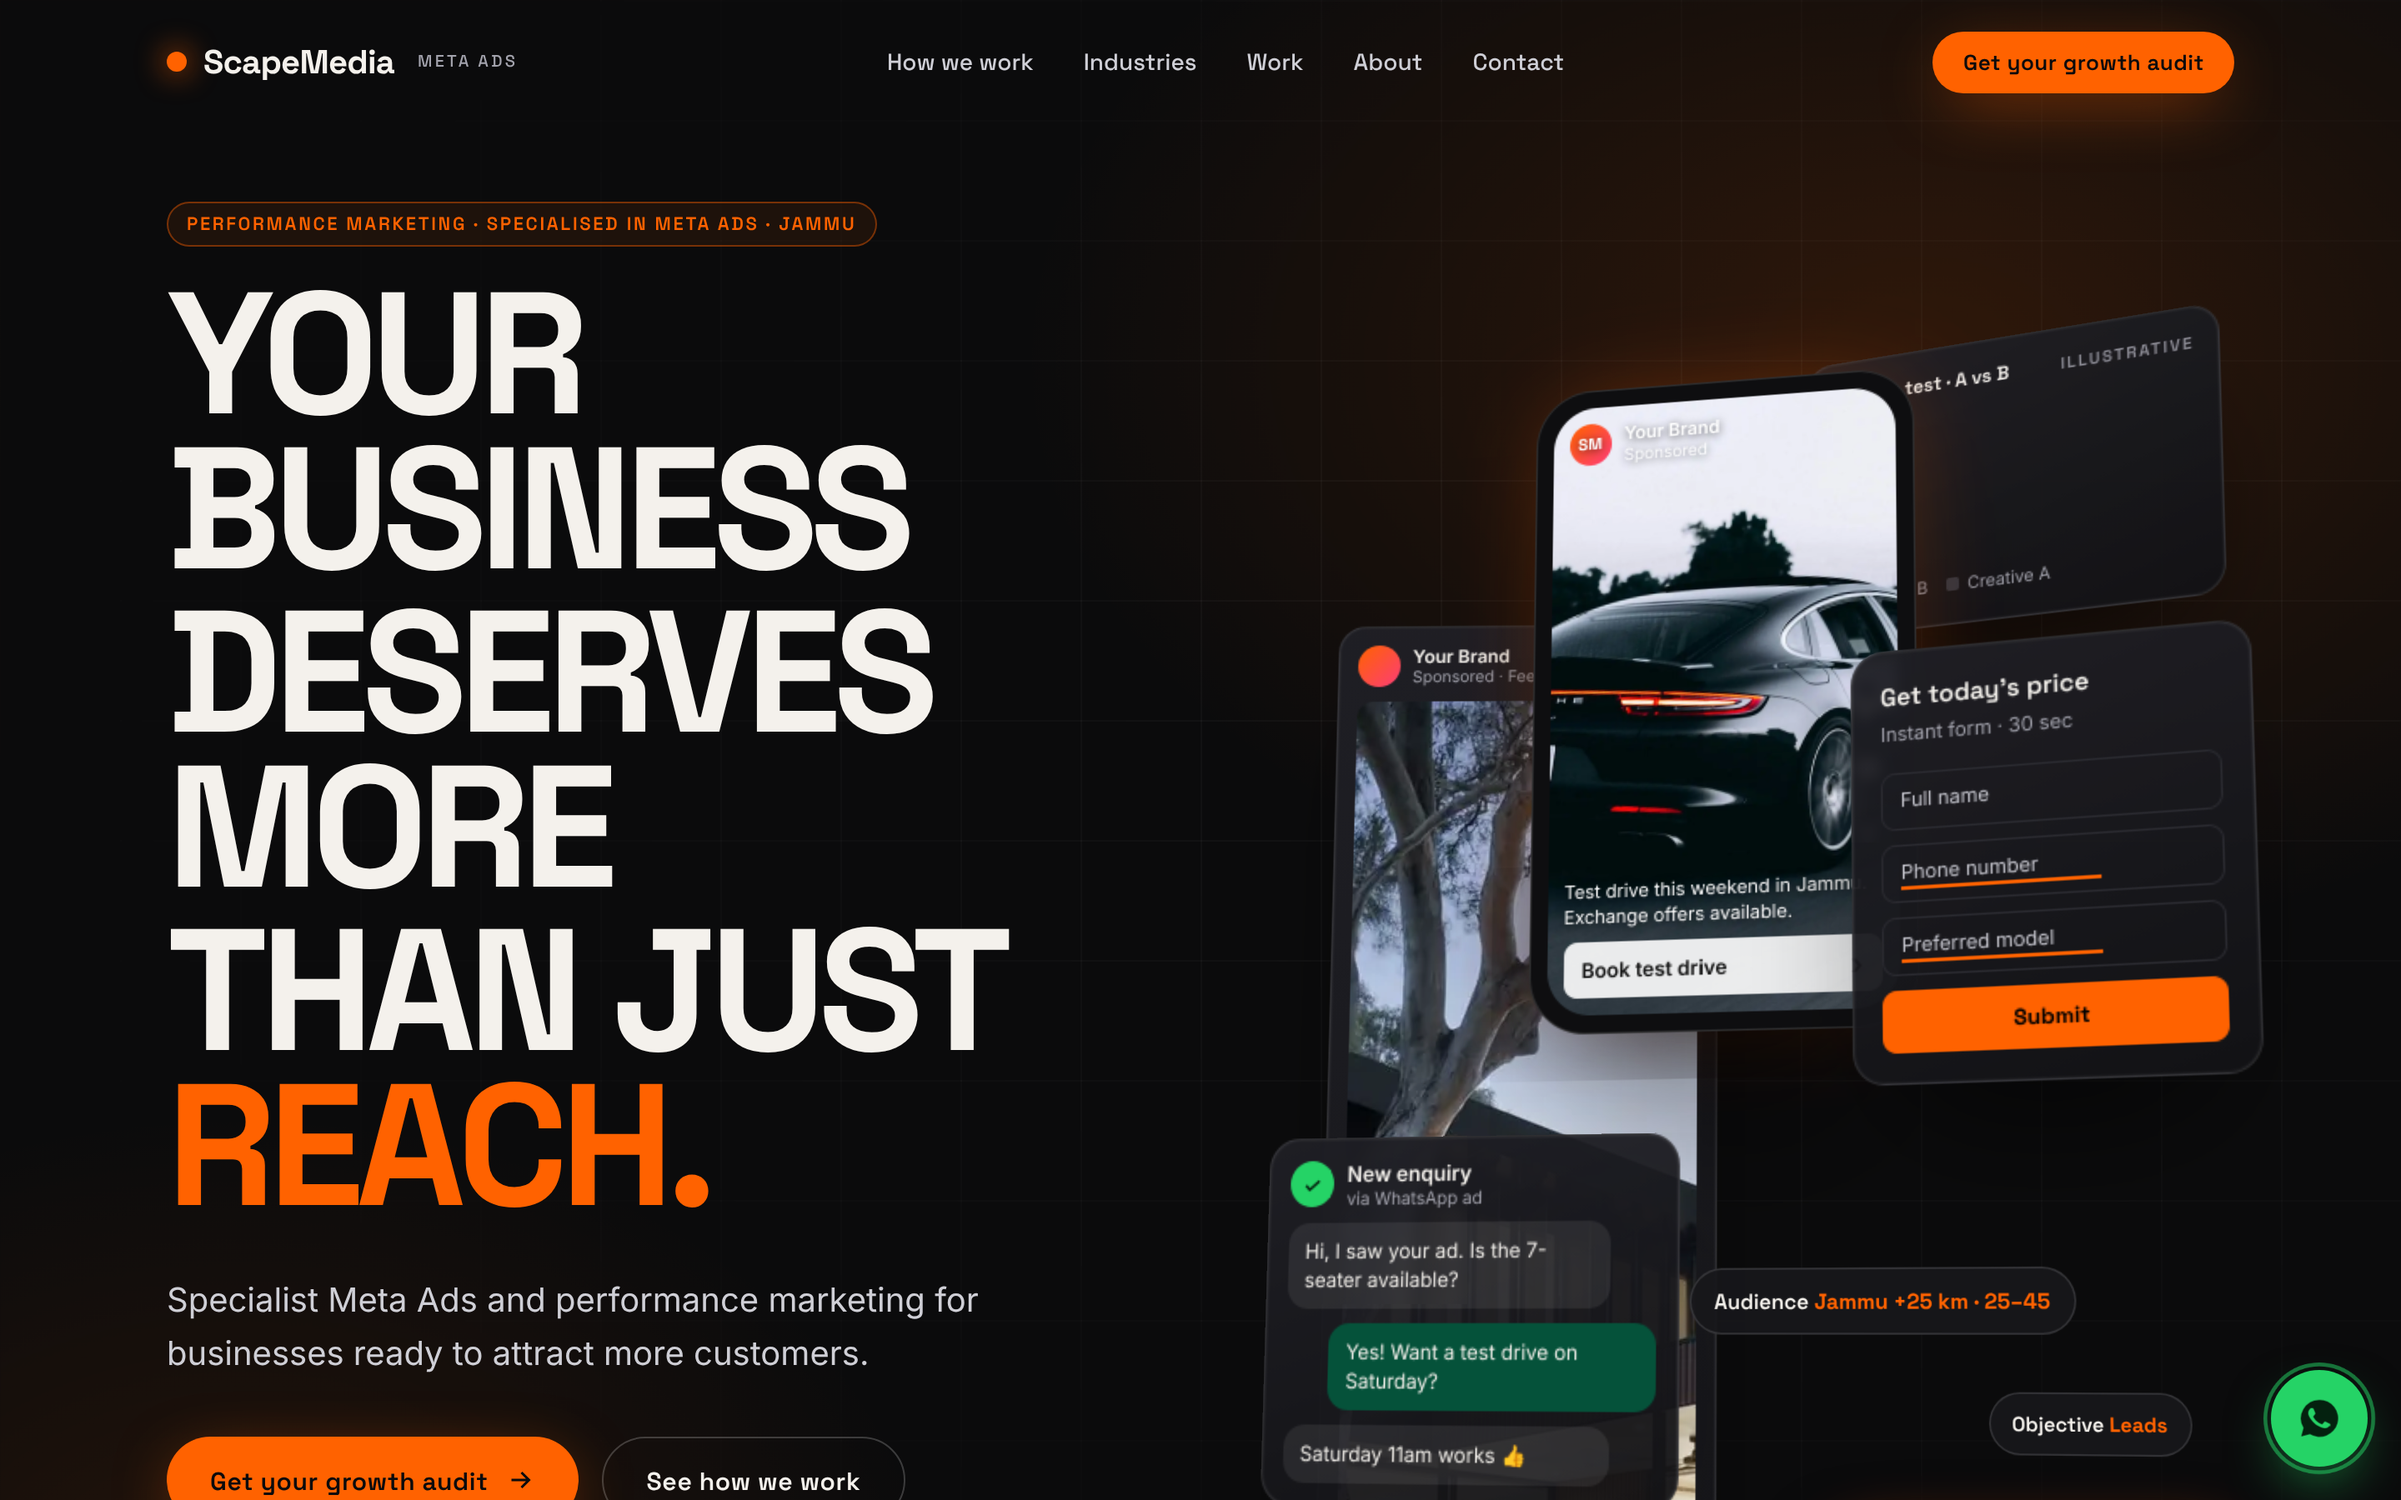
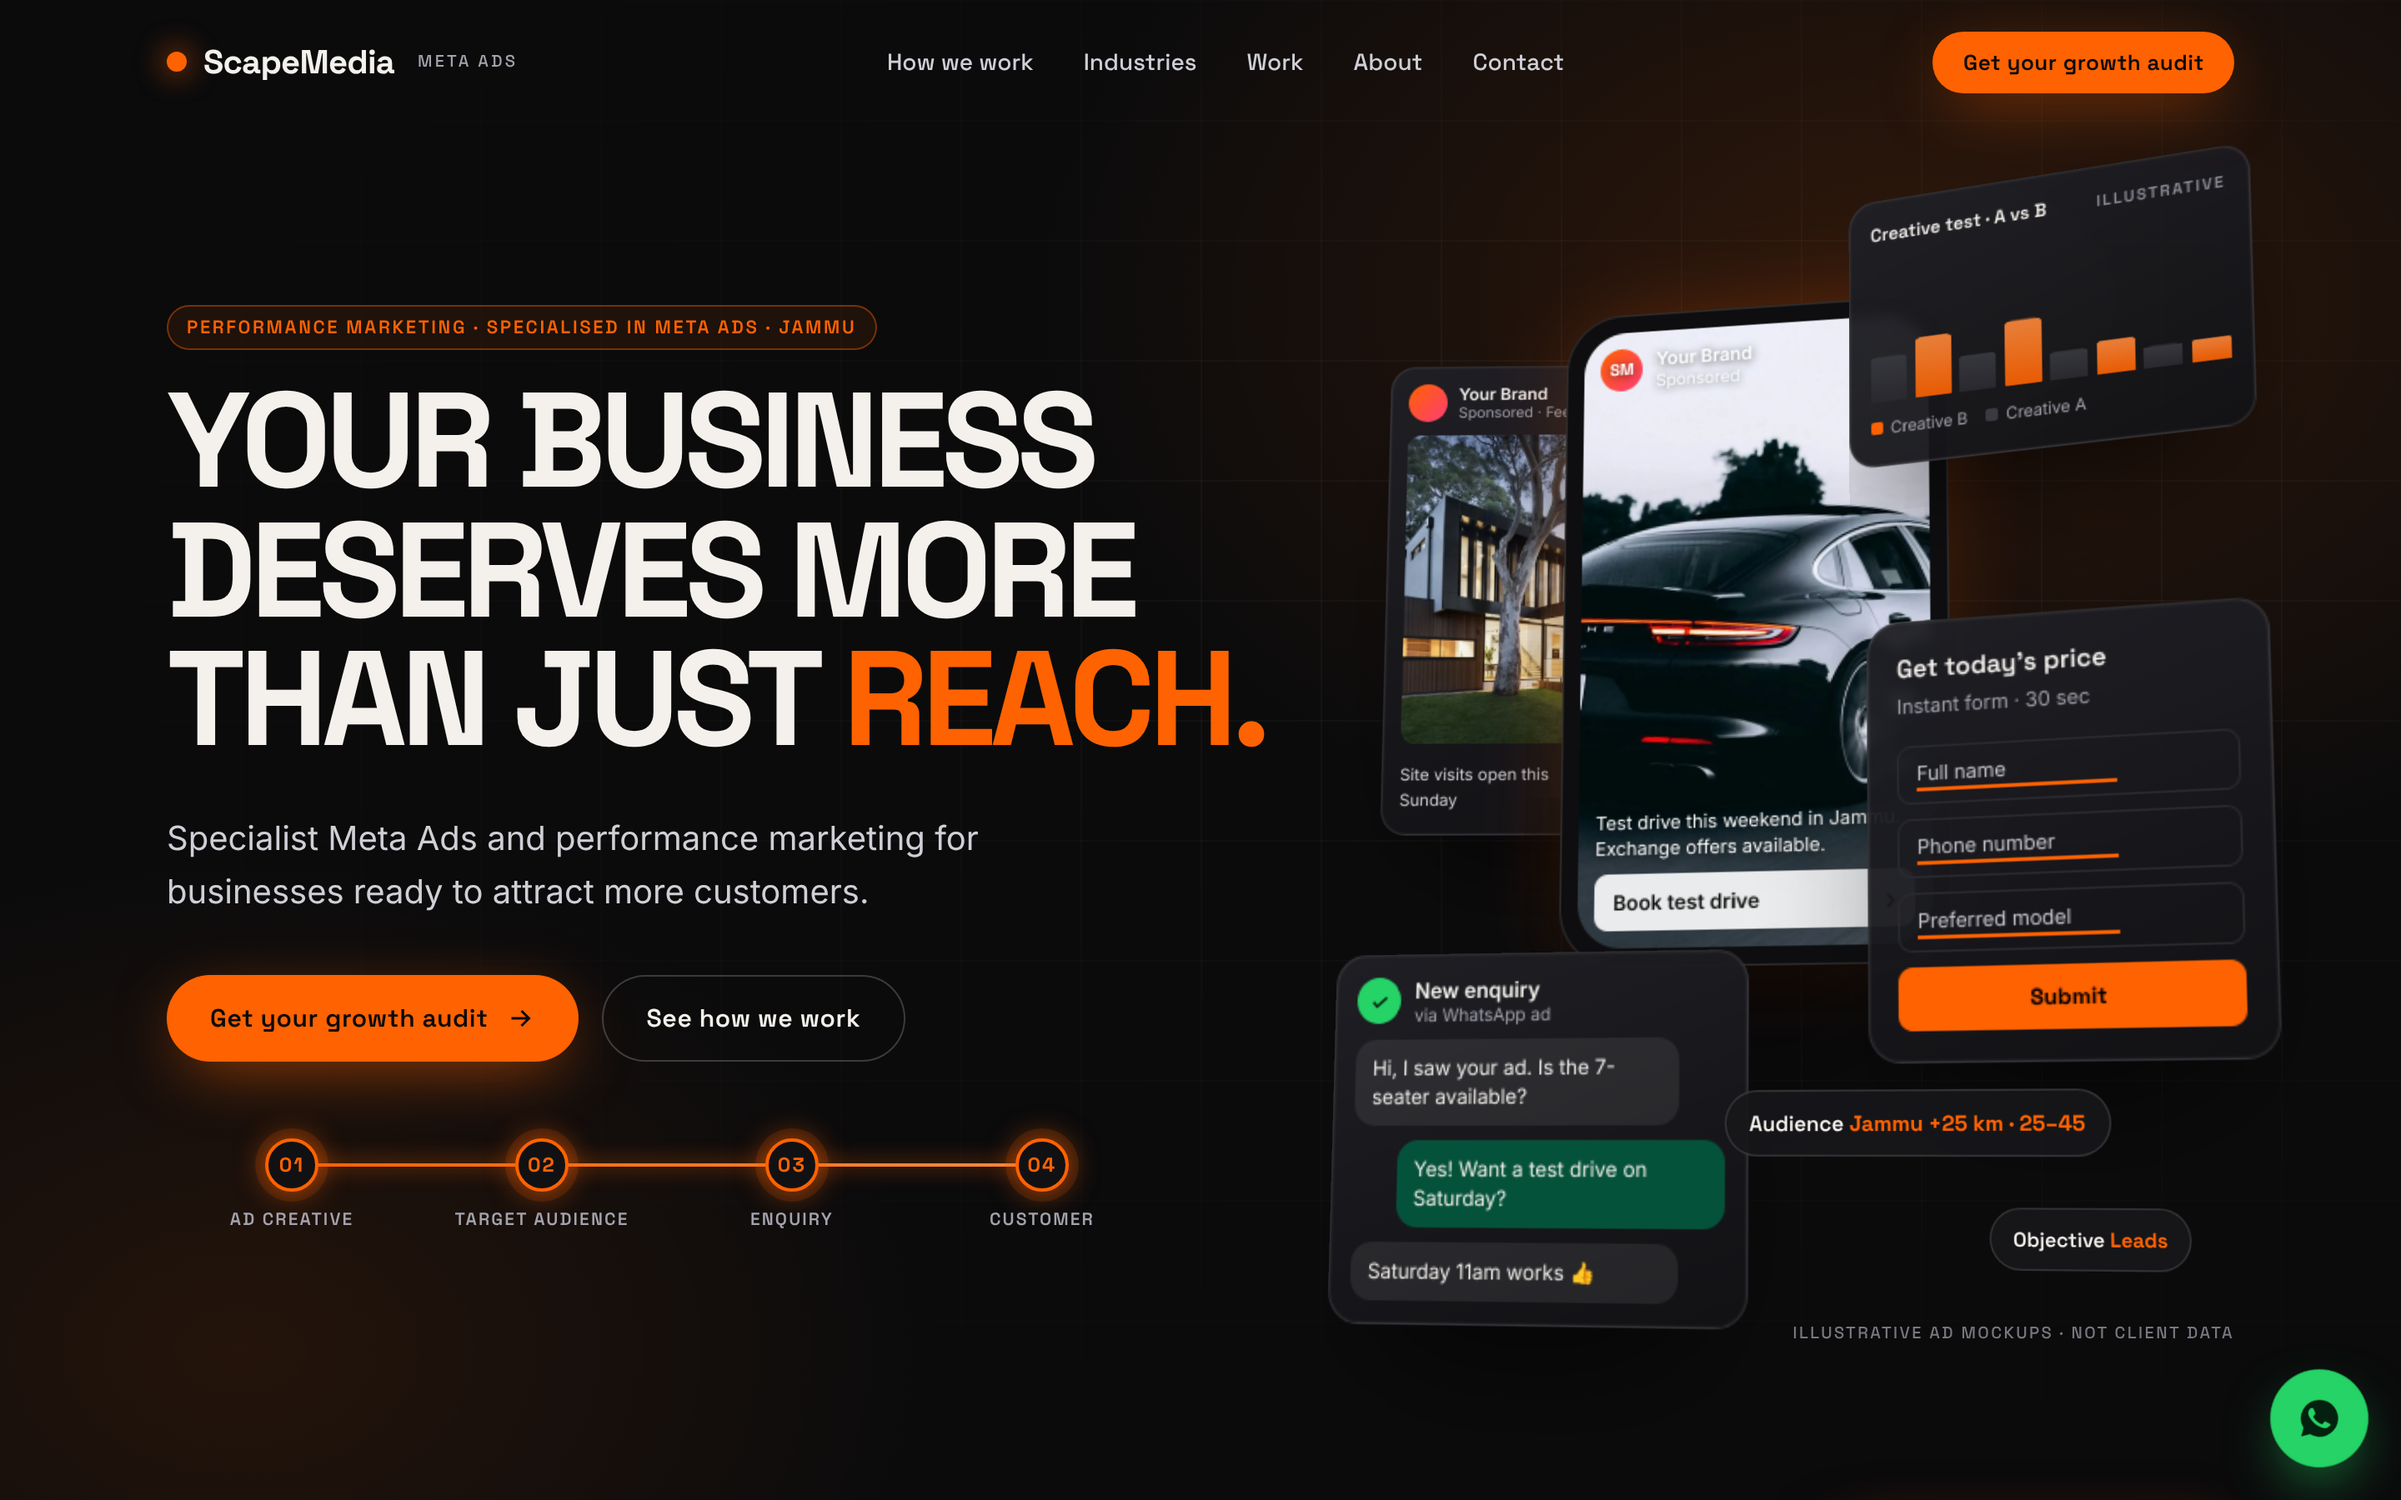
Website v2: hero sizing, card layout and CSS fixes after browser testing
Claude-Session: https://claude.ai/code/session_01EwSRgj9wX5iq9Fc6Vwz7oR

diff --git a/website/v2/assets/css/site.css b/website/v2/assets/css/site.css
@@ -68,8 +68,8 @@ button{font:inherit;color:inherit;background:none;border:0;cursor:pointer}
 .hero{position:relative;min-height:100svh;padding:120px 0 60px;overflow:hidden;z-index:2;
   background:radial-gradient(900px 600px at 80% 20%,#ff620026,transparent 60%),radial-gradient(700px 500px at 10% 90%,#ff62001a,transparent 60%),var(--bg)}
 .hero:before{content:"";position:absolute;inset:0;background-image:linear-gradient(#ffffff08 1px,transparent 1px),linear-gradient(90deg,#ffffff08 1px,transparent 1px);background-size:72px 72px;mask-image:radial-gradient(ellipse at 70% 40%,#000 20%,transparent 75%);pointer-events:none}
-.hero-grid{display:grid;grid-template-columns:1.05fr .95fr;gap:40px;align-items:center;position:relative}
-.hero h1{font:700 clamp(2.9rem,7.2vw,6.6rem)/.9 var(--fh);letter-spacing:-.045em;text-transform:uppercase;margin:18px 0 0}
+.hero-grid{display:grid;grid-template-columns:1.12fr .88fr;gap:40px;align-items:center;position:relative}
+.hero h1{font:700 clamp(2.7rem,5.6vw,5.4rem)/.92 var(--fh);letter-spacing:-.045em;text-transform:uppercase;margin:18px 0 0}
 .hero h1 .ln{display:block;overflow:hidden;padding-bottom:.04em}
 .hero h1 .ln>span{display:inline-block;transform:translateY(105%);transition:transform 1.1s cubic-bezier(.77,0,.175,1);transition-delay:var(--d)}
 .hero.ready h1 .ln>span{transform:none}
@@ -108,7 +108,7 @@ button{font:inherit;color:inherit;background:none;border:0;cursor:pointer}
 .feed .hd{display:flex;align-items:center;gap:8px;font:600 12px var(--fb);margin-bottom:10px}
 .feed .hd i{width:28px;height:28px;border-radius:50%;background:linear-gradient(135deg,var(--or),#ff3d77)}
 .feed .hd small{display:block;color:var(--mute);font-weight:400;font-size:10.5px}
-.feed img{border-radius:10px;aspect-ratio:1;object-fit:cover;width:100%}
+.feed img{border-radius:10px;aspect-ratio:1;object-fit:cover;width:100%;height:auto}
 .feed .row{display:flex;justify-content:space-between;align-items:center;margin-top:10px;font-size:11.5px;color:#d7d7dc}
 .feed .row b{background:var(--or);color:#000;font:600 11px var(--fh);padding:7px 10px;border-radius:7px}
 .form-card{width:220px;padding:16px}
@@ -130,7 +130,7 @@ button{font:inherit;color:inherit;background:none;border:0;cursor:pointer}
 .dash .t{display:flex;justify-content:space-between;align-items:center;margin-bottom:12px}
 .dash .t b{font:600 12px var(--fh)}
 .bars{display:flex;align-items:flex-end;gap:6px;height:90px}
-.bars i{flex:1;border-radius:5px 5px 2px 2px;background:linear-gradient(#ff8a3d,#ff6200);transform-origin:bottom;animation:grow 4.2s var(--ease) infinite;animation-delay:calc(var(--i)*.12s);opacity:.9}
+.bars i{flex:1;height:100%;border-radius:5px 5px 2px 2px;background:linear-gradient(#ff8a3d,#ff6200);transform-origin:bottom;animation:grow 4.2s var(--ease) infinite;animation-delay:calc(var(--i)*.12s);opacity:.9}
 .bars i:nth-child(odd){background:linear-gradient(#3a3a42,#2a2a30)}
 @keyframes grow{0%{transform:scaleY(.15)}45%,85%{transform:scaleY(var(--h))}100%{transform:scaleY(.15)}}
 .dash .lg{display:flex;gap:12px;margin-top:10px;font-size:10.5px;color:var(--mute)}
@@ -466,3 +466,5 @@ html.gl-on [data-gl]{opacity:0}
   .rv{opacity:1;transform:none}
   .hero h1 .ln>span{transform:none}
 }
+
+@media(min-width:981px){.hero h1 .ln>span{white-space:nowrap}}

diff --git a/website/v2/index.html b/website/v2/index.html
@@ -88,7 +88,7 @@ window.SM = {
     <div class="scene" id="scene" aria-hidden="true">
       <div class="rig">
         <!-- reel ad -->
-        <div class="fl" style="left:28%;top:2%;transform:translateZ(60px)">
+        <div class="fl" style="left:26%;top:12%;transform:translateZ(60px)">
           <div class="phone"><div class="scr">
             <img src="assets/img/ad-car.webp" alt="" width="720" height="1280">
             <div class="ui-top"><i>SM</i><div>Your Brand<small>Sponsored</small></div></div>
@@ -97,7 +97,7 @@ window.SM = {
           </div></div>
         </div>
         <!-- feed ad -->
-        <div class="fl" style="left:-2%;top:16%;transform:translateZ(-80px) rotateY(10deg);--dl:-2s">
+        <div class="fl" style="left:-6%;top:6%;transform:translateZ(-80px) rotateY(10deg) scale(.92);--dl:-2s">
           <div class="glass feed">
             <div class="hd"><i></i><div>Your Brand<small>Sponsored · Feed</small></div></div>
             <img src="assets/img/ad-home.webp" alt="" width="800" height="800" loading="lazy">
@@ -105,7 +105,7 @@ window.SM = {
           </div>
         </div>
         <!-- lead form -->
-        <div class="fl" style="right:-2%;top:30%;transform:translateZ(140px) rotateY(-8deg);--dl:-3.5s">
+        <div class="fl" style="right:-4%;top:42%;transform:translateZ(140px) rotateY(-8deg);--dl:-3.5s">
           <div class="glass form-card">
             <h4>Get today's price</h4><p>Instant form · 30 sec</p>
             <div class="f" style="--td:0s">Full name</div>
@@ -124,7 +124,7 @@ window.SM = {
           </div>
         </div>
         <!-- dashboard -->
-        <div class="fl" style="right:0;top:-2%;transform:translateZ(20px) rotateY(-12deg);--dl:-4s">
+        <div class="fl" style="right:-6%;top:4%;transform:translateZ(120px) rotateY(-12deg) scale(.9);--dl:-4s">
           <div class="glass dash">
             <div class="t"><b>Creative test · A vs B</b><span class="illu">Illustrative</span></div>
             <div class="bars"><i style="--i:0;--h:.35"></i><i style="--i:1;--h:.5"></i><i style="--i:2;--h:.3"></i><i style="--i:3;--h:.7"></i><i style="--i:4;--h:.28"></i><i style="--i:5;--h:.86"></i><i style="--i:6;--h:.32"></i><i style="--i:7;--h:1"></i></div>
